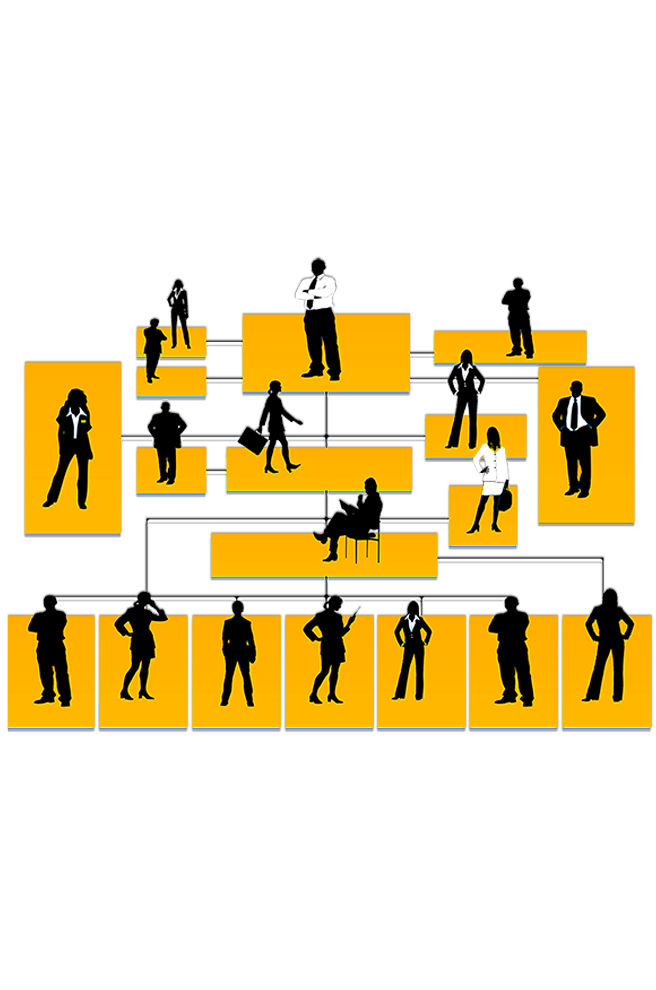
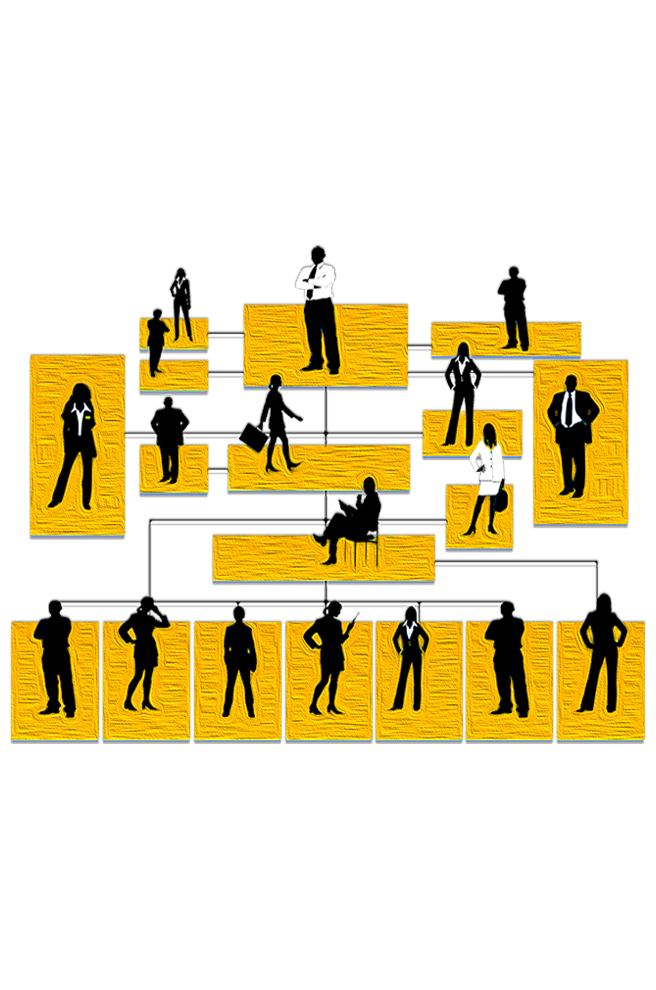
Replaced image and changed order in main slider

Changed region(s): [[0.0, 0.2424, 1.0, 0.7576]]

diff --git a/index.html b/index.html
@@ -298,6 +298,41 @@
                 <!-- Content Column -->
                 <div class="content-column col-lg-7 col-md-12 col-sm-12">
                   <div class="inner-column">
+                    <h1>Focus on the task at hand</h1>
+                    <div class="text">
+                      Let us worry about the other stuff.
+                    </div>
+                    <div class="btn-box">
+                      <div class="clearfix">
+                        <a href="contact.html" class="theme-btn mobile-btn btn-style-two"
+                          ><span class="txt">Book Now</span></a
+                        >
+                        <a href="#services" class="theme-btn mobile-btn btn-style-three"
+                          ><span class="txt">My Services</span></a
+                        >
+                      </div>
+                    </div>
+                  </div>
+                </div>
+
+                <!-- Image Column -->
+                <div class="image-column col-lg-5 col-md-12 col-sm-12">
+                  <div class="inner-column">
+                    <div class="image">
+                      <img src="images/main-slider/busy.png" alt="an illustration of a businessman with six arms each doing a different task" />
+                    </div>
+                  </div>
+                </div>
+              </div>
+            </div>
+          </div>
+
+          <div class="slide">
+            <div class="auto-container">
+              <div class="row clearfix">
+                <!-- Content Column -->
+                <div class="content-column col-lg-7 col-md-12 col-sm-12">
+                  <div class="inner-column">
                     <h1>Account On Us!</h1>
                     <div class="text">
                       We offer services for business owners, executives and
@@ -321,41 +356,6 @@
                   <div class="inner-column">
                     <div class="image">
                       <img src="images/main-slider/hierarchy.png" alt="a third-person abstract view of a corporate hierarchy" />
-                    </div>
-                  </div>
-                </div>
-              </div>
-            </div>
-          </div>
-
-          <div class="slide">
-            <div class="auto-container">
-              <div class="row clearfix">
-                <!-- Content Column -->
-                <div class="content-column col-lg-7 col-md-12 col-sm-12">
-                  <div class="inner-column">
-                    <h1>Focus on the task at hand</h1>
-                    <div class="text">
-                      Let us worry about your bookkeeping and payroll.
-                    </div>
-                    <div class="btn-box">
-                      <div class="clearfix">
-                        <a href="contact.html" class="theme-btn mobile-btn btn-style-two"
-                          ><span class="txt">Book Now</span></a
-                        >
-                        <a href="#services" class="theme-btn mobile-btn btn-style-three"
-                          ><span class="txt">My Services</span></a
-                        >
-                      </div>
-                    </div>
-                  </div>
-                </div>
-
-                <!-- Image Column -->
-                <div class="image-column col-lg-5 col-md-12 col-sm-12">
-                  <div class="inner-column">
-                    <div class="image">
-                      <img src="images/main-slider/busy.png" alt="an illustration of a businessman with six arms each doing a different task" />
                     </div>
                   </div>
                 </div>
